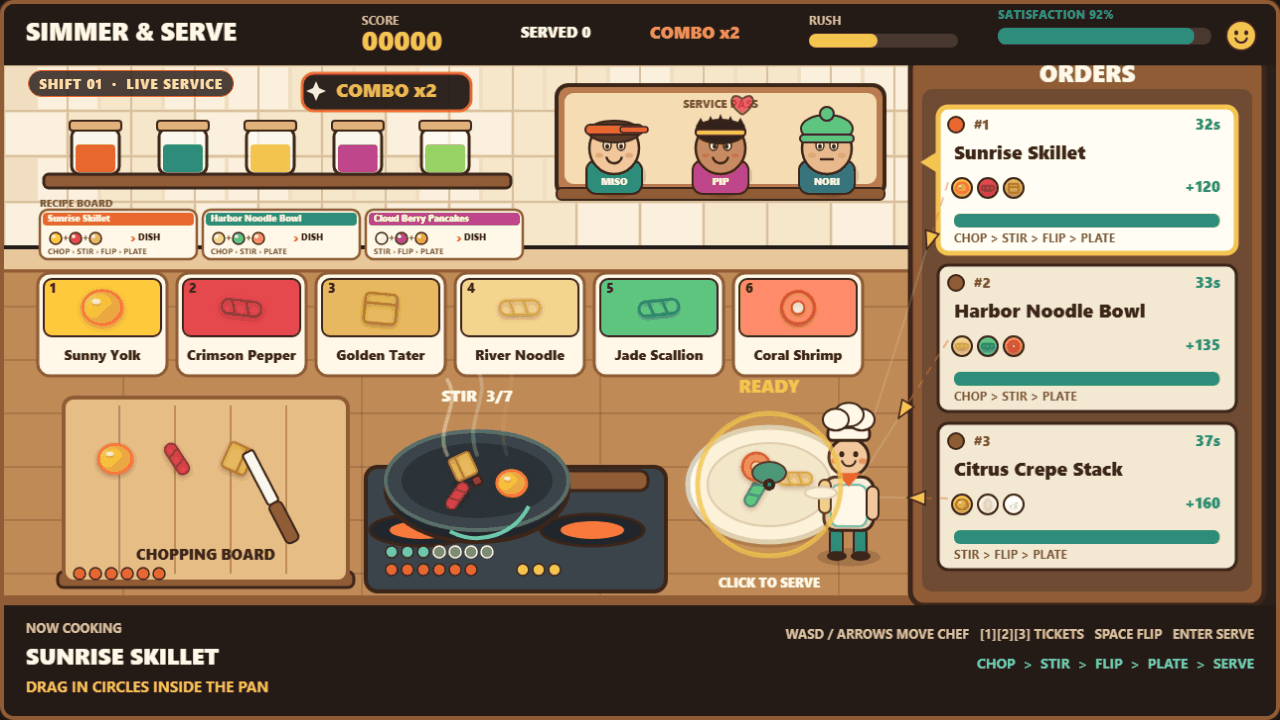
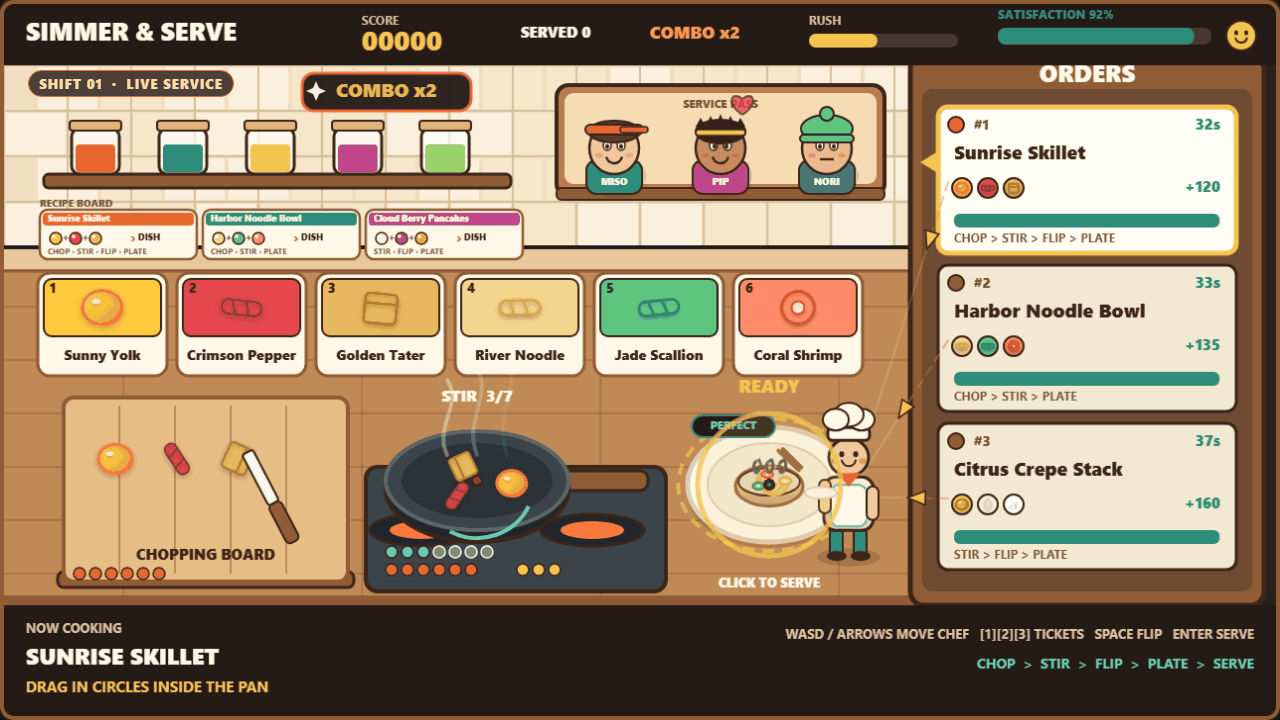
V5: detailed dish art and ready-to-serve cues

Changed region(s): [[0.5312, 0.55, 0.6562, 0.7028]]

diff --git a/game/src/foodart.js b/game/src/foodart.js
@@ -1,0 +1,97 @@
+// foodart.js — finished-dish illustration. Each recipe gets its own silhouette,
+// gradients and garnish so a plated order looks worth serving at thumbnail size.
+
+import { PALETTE as P, ingredientById } from './config.js';
+
+function ell(c,x,y,rx,ry,f,s,lw=2){c.beginPath();c.ellipse(x,y,rx,ry,0,0,Math.PI*2);c.fillStyle=f;c.fill();if(s){c.lineWidth=lw;c.strokeStyle=s;c.stroke()}}
+function rr(c,x,y,w,h,r){c.beginPath();c.moveTo(x+r,y);c.arcTo(x+w,y,x+w,y+h,r);c.arcTo(x+w,y+h,x,y+h,r);c.arcTo(x,y+h,x,y,r);c.arcTo(x,y,x+w,y,r);c.closePath()}
+function shine(c,x,y,s){c.save();c.globalAlpha=.55;ell(c,x-s*.32,y-s*.35,s*.24,s*.12,'#FFFFFF',null);c.restore()}
+function steam(c,x,y,s,now){
+  c.save();c.lineWidth=Math.max(2,s*.12);c.lineCap='round';
+  for(let i=0;i<3;i++){const ox=x+(i-1)*s*.7,ph=(now/760+i*.3)%1;
+    c.globalAlpha=.45*(1-ph);c.strokeStyle='#FFF8E8';
+    c.beginPath();c.moveTo(ox,y-s*.8);c.bezierCurveTo(ox-s*.5,y-s*1.3-ph*8,ox+s*.6,y-s*1.7-ph*10,ox,y-s*2.1-ph*12);c.stroke()}
+  c.restore()
+}
+function colors(dish){return (dish.items||[]).map((id)=>ingredientById(id)).filter(Boolean)}
+
+// Golden folded omelette, pepper/tomato confetti and little herb sprigs.
+export function drawSunriseSkillet(c,x,y,s,now,dish){
+  const g=c.createRadialGradient(x-s*.3,y-s*.5,s*.1,x,y,s*2.2);
+  g.addColorStop(0,'#FFE9A3');g.addColorStop(.45,'#F5B93F');g.addColorStop(1,'#D9822B');
+  ell(c,x,y+s*.12,s*2.1,s*1.05,'rgba(60,37,25,.22)',null);
+  ell(c,x,y,s*2,s*1,g,P.woodDark,3);shine(c,x,y,s);
+  c.strokeStyle='#E89A2E';c.lineWidth=3;c.beginPath();
+  c.ellipse(x-s*.35,y-s*.1,s*1.25,s*.55,-.25,.1,Math.PI*1.25);c.stroke();
+  const cs=colors(dish);
+  cs.forEach((ing,i)=>{const a=i*2.1+.5,px=x+Math.cos(a)*s*1.05,py=y+Math.sin(a)*s*.46;
+    ell(c,px,py,s*.32,s*.24,ing.color,ing.accent,2);ell(c,px-s*.08,py-s*.06,s*.1,s*.06,'rgba(255,255,255,.7)',null)});
+  c.strokeStyle='#3E8A4B';c.lineWidth=2.5;
+  for(let i=0;i<4;i++){const hx=x-s*1.2+i*s*.8,hy=y+s*.55;
+    c.beginPath();c.moveTo(hx,hy);c.lineTo(hx+2,hy-s*.4);c.moveTo(hx+2,hy-s*.2);c.lineTo(hx+s*.32,hy-s*.38);c.stroke()}
+  steam(c,x,y,s,now)
+}
+
+// Wide noodle bowl with swirls, coral shrimp, greens and crossed chopsticks.
+export function drawHarborNoodleBowl(c,x,y,s,now,dish){
+  ell(c,x,y+s*.5,s*2.1,s*.75,'rgba(60,37,25,.22)',null);
+  const bowl=c.createLinearGradient(x,y-s,x,y+s*1.5);
+  bowl.addColorStop(0,'#F3E2C2');bowl.addColorStop(1,'#C99464');
+  ell(c,x,y+s*.2,s*2,s*1.2,bowl,P.woodDark,3);
+  ell(c,x,y-s*.05,s*1.82,s*.82,'#E8D9B6',P.ink,2);
+  c.strokeStyle='#E3B75A';c.lineWidth=3;
+  for(let i=0;i<4;i++){c.beginPath();c.arc(x-s*.3+i*s*.2,y-s*.1,s*(.42+i*.14),.2,Math.PI*1.55);c.stroke()}
+  const cs=colors(dish);
+  cs.forEach((ing,i)=>{const a=i*2.3,px=x+Math.cos(a)*s*.95,py=y-s*.1+Math.sin(a)*s*.4;
+    if(ing.shape==='strip'||ing.shape==='ring'){ell(c,px,py,s*.34,s*.22,ing.color,ing.accent,2);ell(c,px,py,s*.12,s*.08,'#FFF3DF',null)}
+    else ell(c,px,py,s*.3,s*.24,ing.color,ing.accent,2)});
+  c.strokeStyle='#3B7A42';c.lineWidth=3;
+  for(let i=0;i<3;i++){const gx=x-s*.8+i*s*.75;c.beginPath();c.moveTo(gx,y-s*.55);
+    c.quadraticCurveTo(gx-s*.3,y-s*1.2,gx+s*.2,y-s*1.35);c.quadraticCurveTo(gx+s*.45,y-s*.85,gx,y-s*.55);c.stroke()}
+  c.strokeStyle=P.woodDark;c.lineWidth=4;c.lineCap='round';
+  c.beginPath();c.moveTo(x+s*.55,y-s*1.9);c.lineTo(x+s*1.75,y-s*.75);
+  c.moveTo(x+s*.8,y-s*2);c.lineTo(x+s*1.9,y-s*.9);c.stroke();
+  steam(c,x,y-s*.4,s*.85,now)
+}
+
+// Three paper-thin crepes, syrup drips and bright citrus wheels.
+export function drawCitrusCrepeStack(c,x,y,s,now,dish){
+  ell(c,x,y+s*.5,s*2,s*.7,'rgba(60,37,25,.2)',null);
+  for(let i=0;i<3;i++){
+    const g=c.createLinearGradient(x,y-s+i*s*.35,x,y+s*.5+i*s*.35);
+    g.addColorStop(0,'#FFF0CF');g.addColorStop(1,'#E4B978');
+    ell(c,x+i*2,y+i*s*.35,s*1.8-i*s*.1,s*.55,g,P.woodDark,2.5);
+    c.strokeStyle='#C58A45';c.lineWidth=2;
+    c.beginPath();c.ellipse(x+i*2,y+i*s*.35,s*1.3,s*.35,0,.2,Math.PI-.2);c.stroke()}
+  c.fillStyle='#C77A17';
+  c.beginPath();c.moveTo(x-s*1.1,y-s*.5);c.quadraticCurveTo(x,y-s*.95,x+s*1.1,y-s*.5);
+  c.quadraticCurveTo(x+s*.6,y+s*.05,x,y-s*.2);c.quadraticCurveTo(x-s*.7,y+s*.1,x-s*1.1,y-s*.5);c.fill();
+  for(let i=0;i<2;i++){const ox=x+(i? s*1.15:-s*1.15),oy=y-s*.95;
+    ell(c,ox,oy,s*.55,s*.55,'#F6E14A',P.ink,2);
+    ell(c,ox,oy,s*.36,s*.36,'#FFF3B0',null);
+    c.strokeStyle='#E5C62F';c.lineWidth=2;
+    for(let k=0;k<4;k++){const a=k*Math.PI/2;c.beginPath();c.moveTo(ox,oy);c.lineTo(ox+Math.cos(a)*s*.36,oy+Math.sin(a)*s*.36);c.stroke()}}
+  ell(c,x+s*.25,y-s*1.1,s*.32,s*.26,'#FFF8E8',P.ink,2);
+  steam(c,x,y-s,s*.7,now)
+}
+
+// Everyday fallback: a sauced mound of the dish's ingredients with herbs.
+export function drawGenericDish(c,x,y,s,now,dish){
+  const g=c.createLinearGradient(x,y-s,x,y+s);g.addColorStop(0,'#FFF0D2');g.addColorStop(1,'#D9A869');
+  ell(c,x,y+s*.45,s*1.9,s*.7,'rgba(60,37,25,.2)',null);
+  ell(c,x,y,s*1.85,s*.95,g,P.woodDark,3);
+  const cs=colors(dish);
+  cs.forEach((ing,i)=>{const a=i*2.2,px=x+Math.cos(a)*s*.75,py=y+Math.sin(a)*s*.3;
+    ell(c,px,py,s*.48,s*.36,ing.color,ing.accent,2);shine(c,px,py,s*.5)});
+  c.strokeStyle='#3E8A4B';c.lineWidth=2.5;
+  c.beginPath();c.moveTo(x-s*.6,y+s*.5);c.lineTo(x-s*.5,y+s*.1);c.moveTo(x-s*.5,y+s*.3);c.lineTo(x-s*.1,y+s*.15);c.stroke();
+  steam(c,x,y-s*.3,s*.8,now)
+}
+
+export function drawFinishedDish(c,dish,x,y,s,now){
+  if(!dish)return;
+  if(dish.recipeId==='sunrise')drawSunriseSkillet(c,x,y,s,now,dish);
+  else if(dish.recipeId==='harbor')drawHarborNoodleBowl(c,x,y,s,now,dish);
+  else if(dish.recipeId==='citrus')drawCitrusCrepeStack(c,x,y,s,now,dish);
+  else drawGenericDish(c,x,y,s,now,dish);
+}

diff --git a/game/src/render.js b/game/src/render.js
@@ -1,10 +1,12 @@
 // render.js — paints the kitchen, chef, chasing tickets and HUD from state only.
-// customers and recipe-board overlays are injected by main.js; motion is a function of state.now.
+// customers and recipe-board overlays are injected by main.js; plated food comes from foodart.js.
+// All motion and warnings are functions of state.now, so capture presets stay deterministic.
 
 import { PALETTE as P, LAYOUT as L, TIMER, ingredientById as ing } from './config.js';
 import { binIds } from './actions.js';
 import { currentStep as stepOf, selectedOrder } from './state.js';
 import { hitTest } from './input.js';
+import { drawFinishedDish } from './foodart.js';
 
 function rr(c,x,y,w,h,r){c.beginPath();c.moveTo(x+r,y);c.arcTo(x+w,y,x+w,y+h,r);c.arcTo(x+w,y+h,x,y+h,r);c.arcTo(x,y+h,x,y,r);c.arcTo(x,y,x+w,y,r);c.closePath()}
 function box(c,x,y,w,h,r,f,s=P.ink,lw=3){rr(c,x,y,w,h,r);c.fillStyle=f;c.fill();if(s){c.lineWidth=lw;c.strokeStyle=s;c.stroke()}}
@@ -101,8 +103,16 @@ function stove(c,state){
 function plate(c,state){
   const p=L.plate,cx=p.x+p.w/2,cy=p.y+p.h/2,d=state.plated;
   ell(c,cx,cy+8,82,56,P.shadow,null);ell(c,cx,cy,82,58,P.plate,P.plateRim,5);ell(c,cx,cy,62,42,'#F4EEE0',P.plateRim,2);
-  if(d){d.items.forEach((id,i)=>{const a=(i/d.items.length)*Math.PI*2;drawFood(c,ing(id),cx+Math.cos(a)*26,cy+Math.sin(a)*14-6,17,a)});
-    ell(c,cx,cy-12,17,11,d.color,P.ink,2);txt(c,'READY',cx,p.y-12,18,P.gold,800,'center');txt(c,'CLICK TO SERVE',cx,p.y+p.h+14,13,P.cream,800,'center')}
+  if(d){
+    const pulse=.5+.5*Math.sin(state.now/260);
+    c.save();c.globalAlpha=.35+.45*pulse;c.strokeStyle=P.gold;c.lineWidth=4;c.setLineDash([12,8]);
+    c.beginPath();c.ellipse(cx,cy,88+pulse*5,64+pulse*4,0,0,Math.PI*2);c.stroke();c.setLineDash([]);c.restore();
+    drawFinishedDish(c,d,cx,cy-2,17,state.now);
+    txt(c,'READY',cx,p.y-12,18,P.gold,800,'center');txt(c,'CLICK TO SERVE',cx,p.y+p.h+14,13,P.cream,800,'center');
+    if(state.plateQuality){const q=state.plateQuality;
+      box(c,p.x+8,p.y+16,84,22,11,P.night,q==='PERFECT'?P.teal:P.gold,2);
+      txt(c,q,p.x+50,p.y+27,11,q==='PERFECT'?P.tealLight:P.gold,800,'center')}
+  }
   else{txt(c,'PLATE',cx,p.y+p.h+16,14,P.cream,700,'center');
     if(state.active&&stepOf(state.active)==='plate')txt(c,'CLICK TO PLATE!',cx,p.y-14,16,P.gold,800,'center')}
 }
@@ -137,6 +147,7 @@ function drawChef(c,state){
 // Each ticket's arrow slides from the board toward the chef as its timer drains.
 function pursuitRails(c,state){
   const p=state.player;
+  let warnings=0,anyHot=false;
   state.orders.forEach((order,i)=>{
     const t={x:L.ticket.x,y:L.ticket.y+i*(L.ticket.h+L.ticket.gap)};
     const ratio=Math.max(0,order.remaining/order.total),urgent=ratio<.25,pr=order.pursuit||0;
@@ -149,9 +160,11 @@ function pursuitRails(c,state){
     c.save();c.translate(bx,by);c.rotate(Math.atan2(ey-sy,ex-sx));
     c.beginPath();c.moveTo(11,0);c.lineTo(-7,-7);c.lineTo(-7,7);c.closePath();c.fill();
     c.strokeStyle=P.ink;c.lineWidth=1.5;c.stroke();c.restore();
-    if(pr>.62||urgent)txt(c,urgent?'! CLOSING IN':'CLOSING IN',bx+10,by-12,11,urgent?P.red:P.gold,800);
+    if(pr>.62||urgent){warnings++;if(urgent)anyHot=true}
     c.restore()
   })
+  // One callout in empty wall space: never over the chef, plate, pan or tickets.
+  if(warnings)txt(c,(anyHot?'! ':'')+warnings+' CLOSING IN',44,104,13,anyHot?P.red:P.gold,800,'left')
 }
 
 function orders(c,state){

diff --git a/game/src/shots.js b/game/src/shots.js
@@ -50,6 +50,7 @@ export function applyShot(state, query) {
     const serveOrder = orderById(state, 2);
     stageActive(state, panOrder, 1, { stir: 3 });
     stagePlate(state, serveOrder);
+    state.plateQuality = 'PERFECT';
     state.selected = 0;
     flavor(state, 476, 482, panOrder.items, 12, 120);
     flavor(state, 770, 486, serveOrder.items, 14, 150);
@@ -105,6 +106,7 @@ export function applyShot(state, query) {
     advanceTimers(state, 1200);
     const order = orderById(state, 1);
     stagePlate(state, order);
+    state.plateQuality = 'FRESH';
     state.selected = 0;
     state.orders.forEach((o, i) => { o.remaining = Math.round(o.total * (i === 0 ? 0.16 : 0.44)); });
     state.score = 1285;

diff --git a/game/src/main.js b/game/src/main.js
@@ -1,5 +1,6 @@
 // main.js — boot only: read the URL, build the state, wire input, run the frame loop.
 // A ?shot=... URL freezes time so a preset frame can be captured byte-for-byte.
+// foodart.js is pulled in by render.js; all module paths here and there are relative.
 
 import { createState, advanceTimers } from './state.js';
 import { applyShot } from './shots.js';
